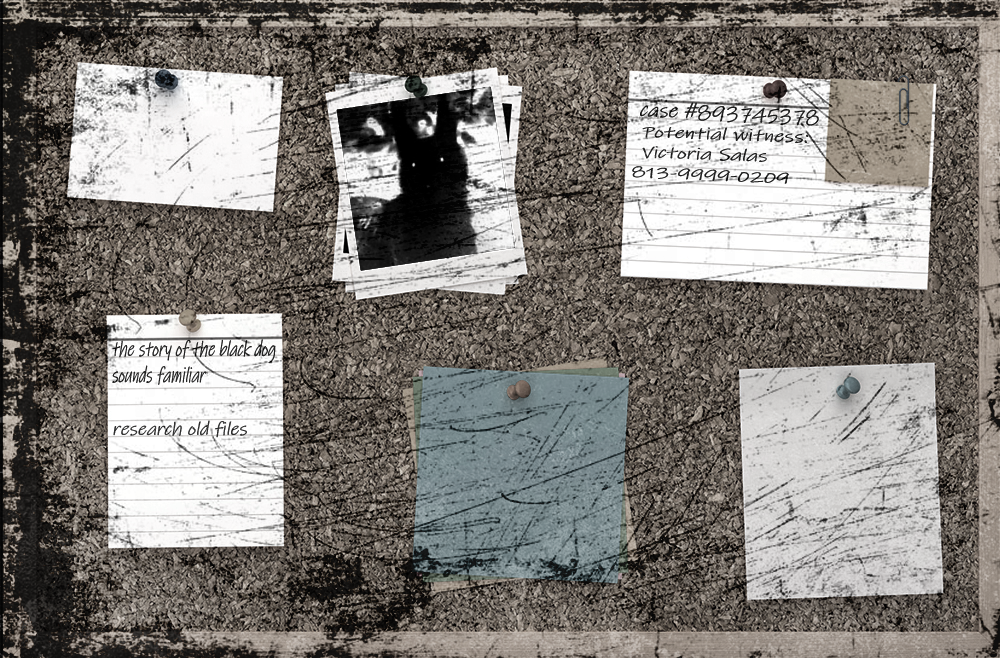
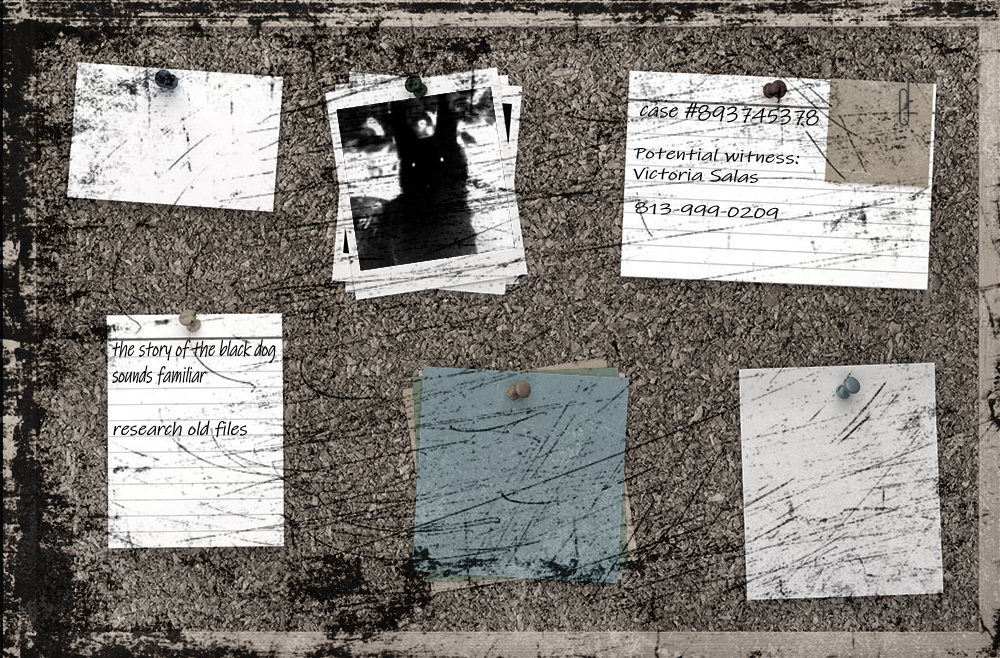
added font for map

Changed region(s): [[0.62, 0.1824, 0.806, 0.2736], [0.62, 0.304, 0.775, 0.3343], [0.124, 0.6383, 0.248, 0.6687]]

diff --git a/styles/map.css b/styles/map.css
@@ -1,21 +1,19 @@
 a:link {
-    font-family: 'raleway', sans-serif;
+    font-family: 'Rock Salt', sans-serif;
     text-decoration: none;
-    text-transform: uppercase;
     color: #BD2424;
+    font-weight: bold;
 }
 
 a:visited {
-    font-family: 'raleway', sans-serif;
+    font-family: 'Rock Salt', sans-serif;
     text-decoration: none;
-    text-transform: uppercase;
     color: #781717;
 }
 
 a:hover {
-    font-family: 'raleway', sans-serif;
+    font-family: 'Rock Salt', sans-serif;
     text-decoration: none;
-    text-transform: uppercase;
     color: #839791;
     font-weight: bold;
 }
@@ -24,6 +22,7 @@ a:hover {
     display: flex;
     flex-direction: column;
     align-items: center;
+    font-family: 'Rock Salt', sans-serif;
 }
 
 .completed-quest {

diff --git a/maps/index.html b/maps/index.html
@@ -9,6 +9,7 @@
     <link rel="preconnect" href="https://fonts.googleapis.com">
     <link rel="preconnect" href="https://fonts.gstatic.com" crossorigin>
     <link href="https://fonts.googleapis.com/css2?family=Raleway:wght@100;400&display=swap" rel="stylesheet">
+    <link href="https://fonts.googleapis.com/css2?family=Rock+Salt&display=swap" rel="stylesheet">
     <!-- Stylesheets -->
     <link rel="stylesheet" href="../styles/reset.css">
     <link rel="stylesheet" href="../styles/home.css">
